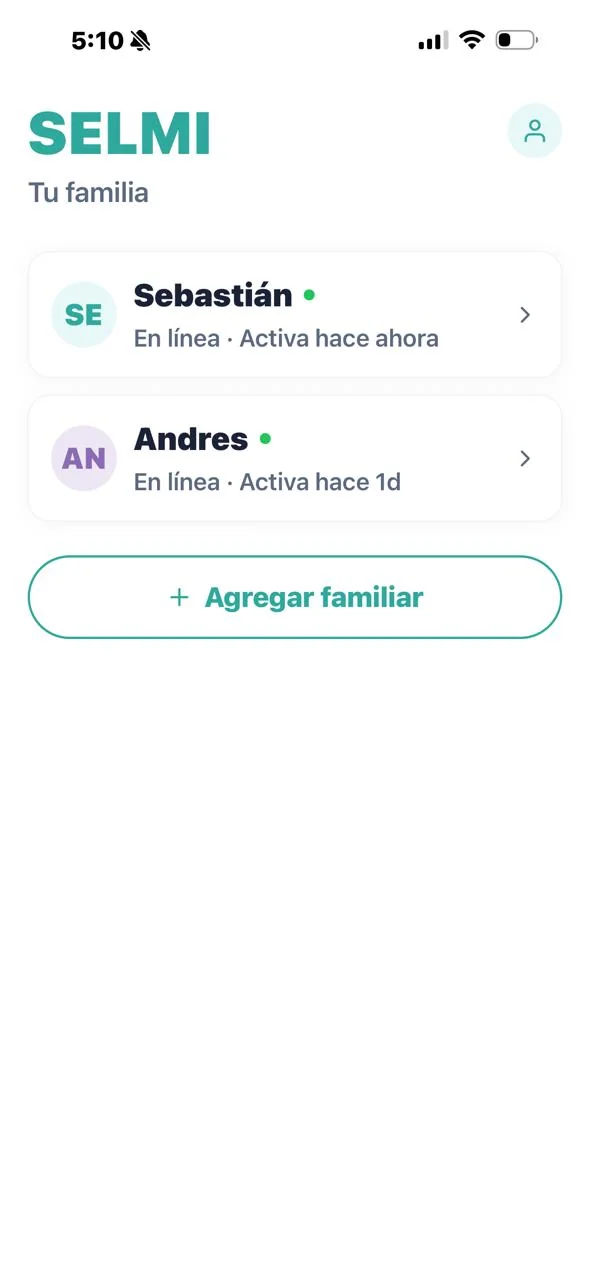
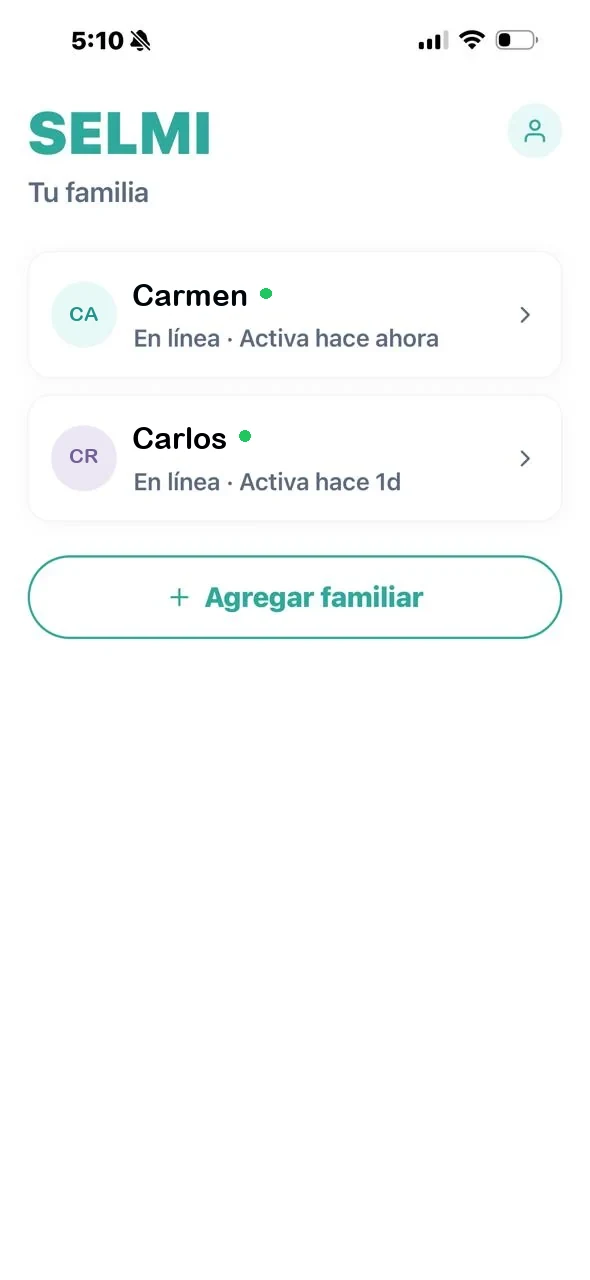
fotos: hero con SELMI y persona, dispositivo sin recorte, banda videollamada, app con Carmen/Carlos y pantalla bienestar

diff --git a/index.html b/index.html
@@ -87,17 +87,18 @@ nav a:hover{color:var(--terra)}
 
 /* HERO */
 .hero{
-  min-height:600px;position:relative;overflow:hidden;
-  display:flex;flex-direction:column;align-items:flex-start;justify-content:flex-start;
-  padding:128px 56px 60px;text-align:left;
-  background-image:
-    linear-gradient(100deg,rgba(248,249,252,.97) 0%,rgba(248,249,252,.92) 34%,rgba(248,249,252,.55) 56%,rgba(248,249,252,.10) 100%),
-    url('img/selmi-hero.webp');
-  background-size:cover;background-position:right 22%;
+  position:relative;overflow:hidden;
+  display:flex;align-items:center;justify-content:center;gap:56px;
+  padding:136px 56px 72px;text-align:left;
+  background:linear-gradient(160deg,#F8F9FC 0%,#EFF5F2 55%,#EAF3EE 100%);
 }
 .hero-ov{position:absolute;inset:0;background:radial-gradient(ellipse at 15% 40%,rgba(122,219,208,.10),transparent 55%)}
-.hc{position:relative;z-index:1;max-width:620px}
-@media(max-width:860px){.hero{min-height:auto;max-height:none;padding:96px 22px 48px;align-items:center;text-align:center;background-image:linear-gradient(180deg,rgba(248,249,252,.95) 0%,rgba(248,249,252,.72) 60%,rgba(248,249,252,.55) 100%),url('img/selmi-hero.webp');background-position:center 30%}.hc{max-width:600px}}
+.hc{position:relative;z-index:1;max-width:600px;flex:1 1 auto}
+.hero-ph{position:relative;z-index:1;flex:0 0 400px;max-width:400px}
+.hero-ph img{display:block;width:100%;height:auto;border-radius:24px;box-shadow:0 28px 70px rgba(15,30,46,.22)}
+.hero-ph-tag{position:absolute;left:-14px;bottom:26px;background:rgba(255,255,255,.94);border:1px solid rgba(15,30,46,.08);border-radius:100px;padding:9px 18px;font-size:13px;font-weight:600;color:var(--text);box-shadow:0 10px 26px rgba(15,30,46,.14);display:flex;align-items:center;gap:8px}
+@media(max-width:1080px){.hero{gap:36px}.hero-ph{flex-basis:330px;max-width:330px}}
+@media(max-width:860px){.hero{flex-direction:column;padding:96px 22px 48px;align-items:center;text-align:center;gap:36px}.hc{max-width:600px}.hero-ph{flex:0 0 auto;width:100%;max-width:330px}.hero-ph-tag{left:50%;transform:translateX(-50%);bottom:-16px}}
 .hbadge{display:inline-flex;align-items:center;gap:8px;background:rgba(14,165,121,.12);border:1px solid rgba(14,165,121,.3);color:var(--sage2);font-size:12px;font-weight:600;letter-spacing:.5px;padding:6px 18px;border-radius:100px;margin-bottom:36px;animation:up .8s ease both}
 .bdot{width:6px;height:6px;border-radius:50%;background:var(--sage);animation:beat 2s ease-in-out infinite}
 .hero h1{font-family:'Inter','Nunito',sans-serif;font-size:clamp(44px,6vw,80px);font-weight:800;line-height:1.02;letter-spacing:-2.2px;color:#0F1E2E;animation:up .8s .1s ease both}
@@ -139,7 +140,7 @@ nav a:hover{color:var(--terra)}
   radial-gradient(ellipse 700px 400px at 25% 50%,rgba(122,219,208,.16),transparent 65%),
   radial-gradient(ellipse 600px 400px at 80% 60%,rgba(197,168,232,.14),transparent 60%),
   linear-gradient(135deg,#0F1E2E 0%,#1F2937 100%)}
-.strip-2{background-image:linear-gradient(170deg,rgba(15,30,46,.35) 0%,rgba(15,30,46,.55) 100%),url('img/selmi-dia-videollamada.webp');background-position:center 35%}
+.strip-2{background-image:linear-gradient(170deg,rgba(15,30,46,.35) 0%,rgba(15,30,46,.55) 100%),url('img/selmi-videollamada-familia.webp');background-position:center 30%}
 
 /* SECTIONS */
 section{padding:96px 24px}
@@ -379,7 +380,7 @@ select.finp{appearance:none;cursor:pointer}
   .hbg{display:flex}
 
   /* Hero */
-  .hero{padding:100px 18px 60px;background-attachment:scroll}
+  .hero{padding:100px 18px 60px}
   .hero h1{font-size:clamp(32px,9vw,52px);letter-spacing:-1px}
   .hsub{font-size:16px;margin:18px auto 32px}
   .hbadge{font-size:11px;padding:5px 14px}
@@ -575,6 +576,10 @@ select.finp{appearance:none;cursor:pointer}
     </div>
     <div style="margin-top:16px;font-size:13px;color:var(--text3)">Sin pago hoy · Reservás tu lugar · Te contactamos por WhatsApp</div>
   </div>
+  <div class="hero-ph">
+    <img src="img/selmi-hero-senor.webp" width="960" height="1200" fetchpriority="high" alt="Un señor mayor sonríe mientras desayuna y conversa con su dispositivo SELMI en la cocina">
+    <div class="hero-ph-tag"><span>💬</span><span>«Buenos días, ¿en qué puedo ayudarte hoy?»</span></div>
+  </div>
 </section>
 
 <!-- TICKER -->
@@ -642,7 +647,7 @@ select.finp{appearance:none;cursor:pointer}
       </div>
       <div style="position:relative">
         <div style="position:absolute;top:50%;left:50%;transform:translate(-50%,-50%);width:420px;height:420px;border-radius:50%;background:radial-gradient(circle,rgba(212,148,92,.2),transparent 70%);pointer-events:none"></div>
-        <img src="img/selmi-dispositivo.webp" loading="lazy" width="1600" height="900" alt="Dispositivo SELMI en el hogar mostrando el saludo del día" style="width:100%;aspect-ratio:16/11;object-fit:cover;object-position:center;display:block;border-radius:20px;position:relative;z-index:1;box-shadow:0 24px 60px rgba(0,0,0,.35)">
+        <img src="img/selmi-dispositivo.webp" loading="lazy" width="1600" height="900" alt="Dispositivo SELMI en el hogar mostrando el saludo del día" style="width:100%;height:auto;aspect-ratio:16/9;display:block;border-radius:20px;position:relative;z-index:1;box-shadow:0 24px 60px rgba(0,0,0,.35)">
         <div style="position:absolute;top:24px;left:-16px;background:rgba(20,10,4,.88);backdrop-filter:blur(12px);border:1px solid rgba(255,255,255,.1);border-radius:100px;padding:8px 16px;display:flex;align-items:center;gap:8px;z-index:2">
           <span style="font-size:14px">&#128225;</span>
           <span style="font-size:12px;font-weight:600;color:#FBF5EB">WiFi + Bluetooth</span>
@@ -702,6 +707,10 @@ select.finp{appearance:none;cursor:pointer}
       <div style="text-align:center">
         <div style="border:11px solid #1A2530;border-radius:40px;overflow:hidden;box-shadow:0 32px 70px rgba(31,41,55,.24);width:270px;margin:0 auto"><img src="img/selmi-app-home.webp" loading="lazy" alt="App SELMI: estado del día y resumen semanal" style="display:block;width:100%"></div>
         <div style="font-size:13px;font-weight:700;color:var(--terra);margin-top:14px">El estado del día, de un vistazo</div>
+      </div>
+      <div style="text-align:center">
+        <div style="border:9px solid #1A2530;border-radius:34px;overflow:hidden;box-shadow:0 24px 60px rgba(31,41,55,.18);width:230px;margin:0 auto"><img src="img/selmi-app-bienestar.webp" loading="lazy" alt="App SELMI: bienestar cognitivo de Carmen, semana a semana" style="display:block;width:100%"></div>
+        <div style="font-size:13px;font-weight:600;color:var(--text2);margin-top:14px">Bienestar cognitivo, semana a semana</div>
       </div>
       <div style="text-align:center">
         <div style="border:9px solid #1A2530;border-radius:34px;overflow:hidden;box-shadow:0 24px 60px rgba(31,41,55,.18);width:230px;margin:0 auto"><img src="img/selmi-app-tarea.webp" loading="lazy" alt="App SELMI: configurar recordatorios" style="display:block;width:100%"></div>
@@ -793,7 +802,7 @@ select.finp{appearance:none;cursor:pointer}
 <!-- STRIP 2 -->
 <div class="strip strip-2">
   <div class="si">
-    <h2>La tranquilidad de saber<br>que no está <em>sola</em></h2>
+    <h2>La tranquilidad de saber<br>que no están <em>solos</em></h2>
     <p>SELMI cuida a tu ser querido cuando vos no podés estar. Reportes diarios, alertas instantáneas, compañía real.</p>
   </div>
 </div>
